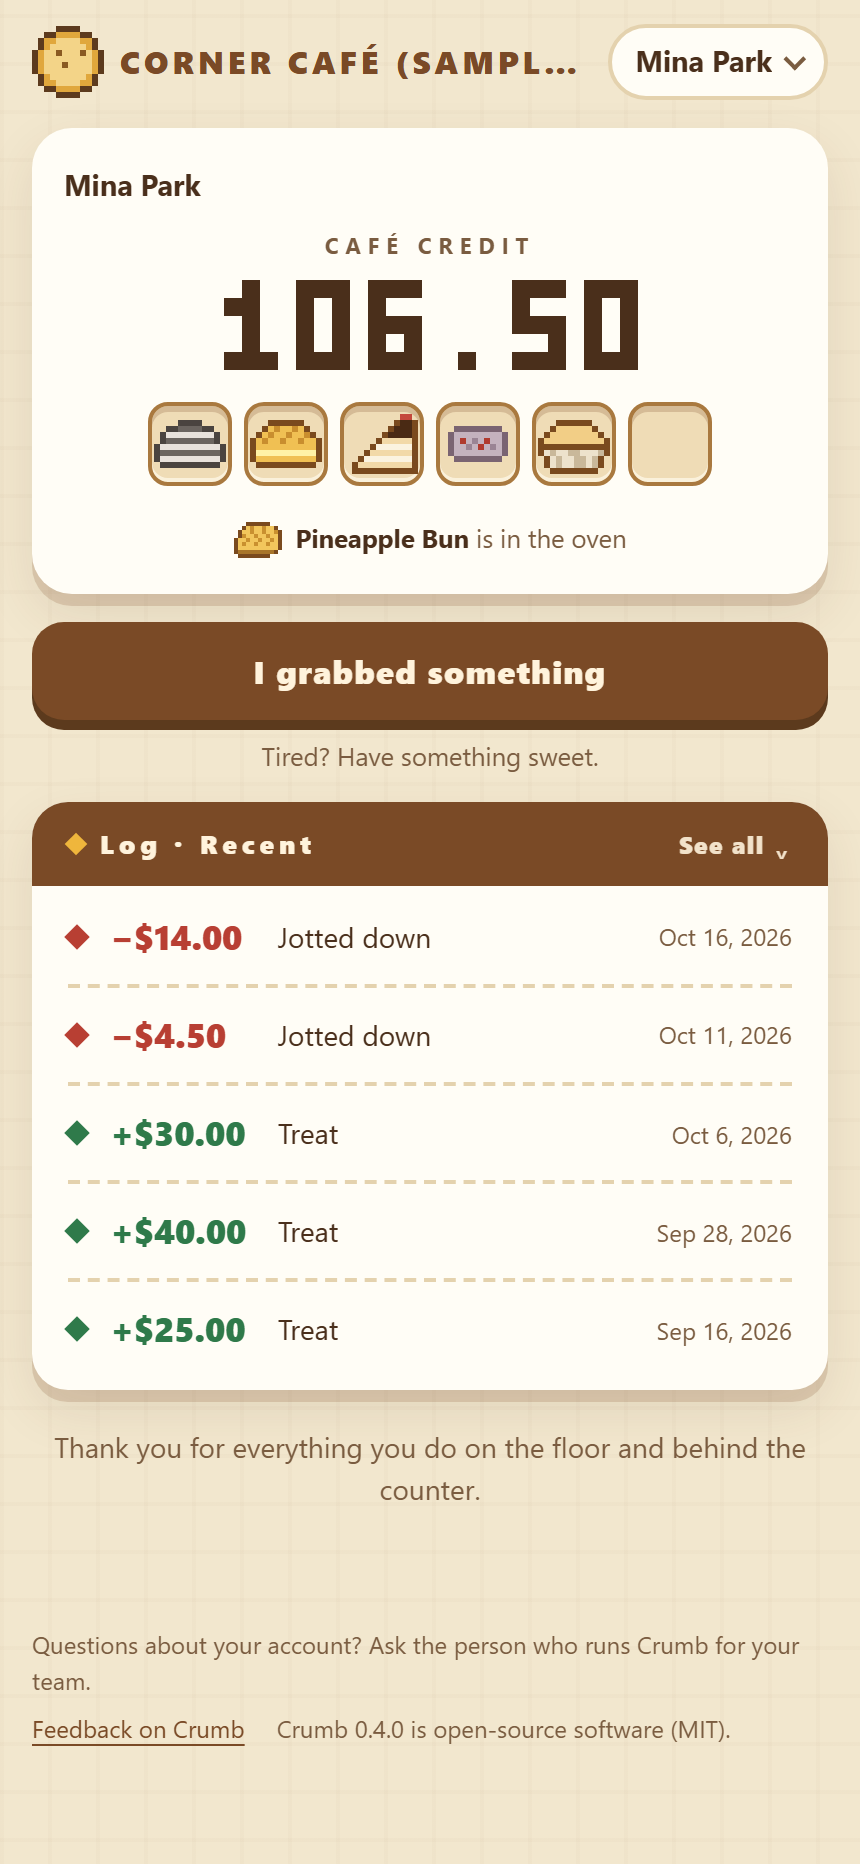
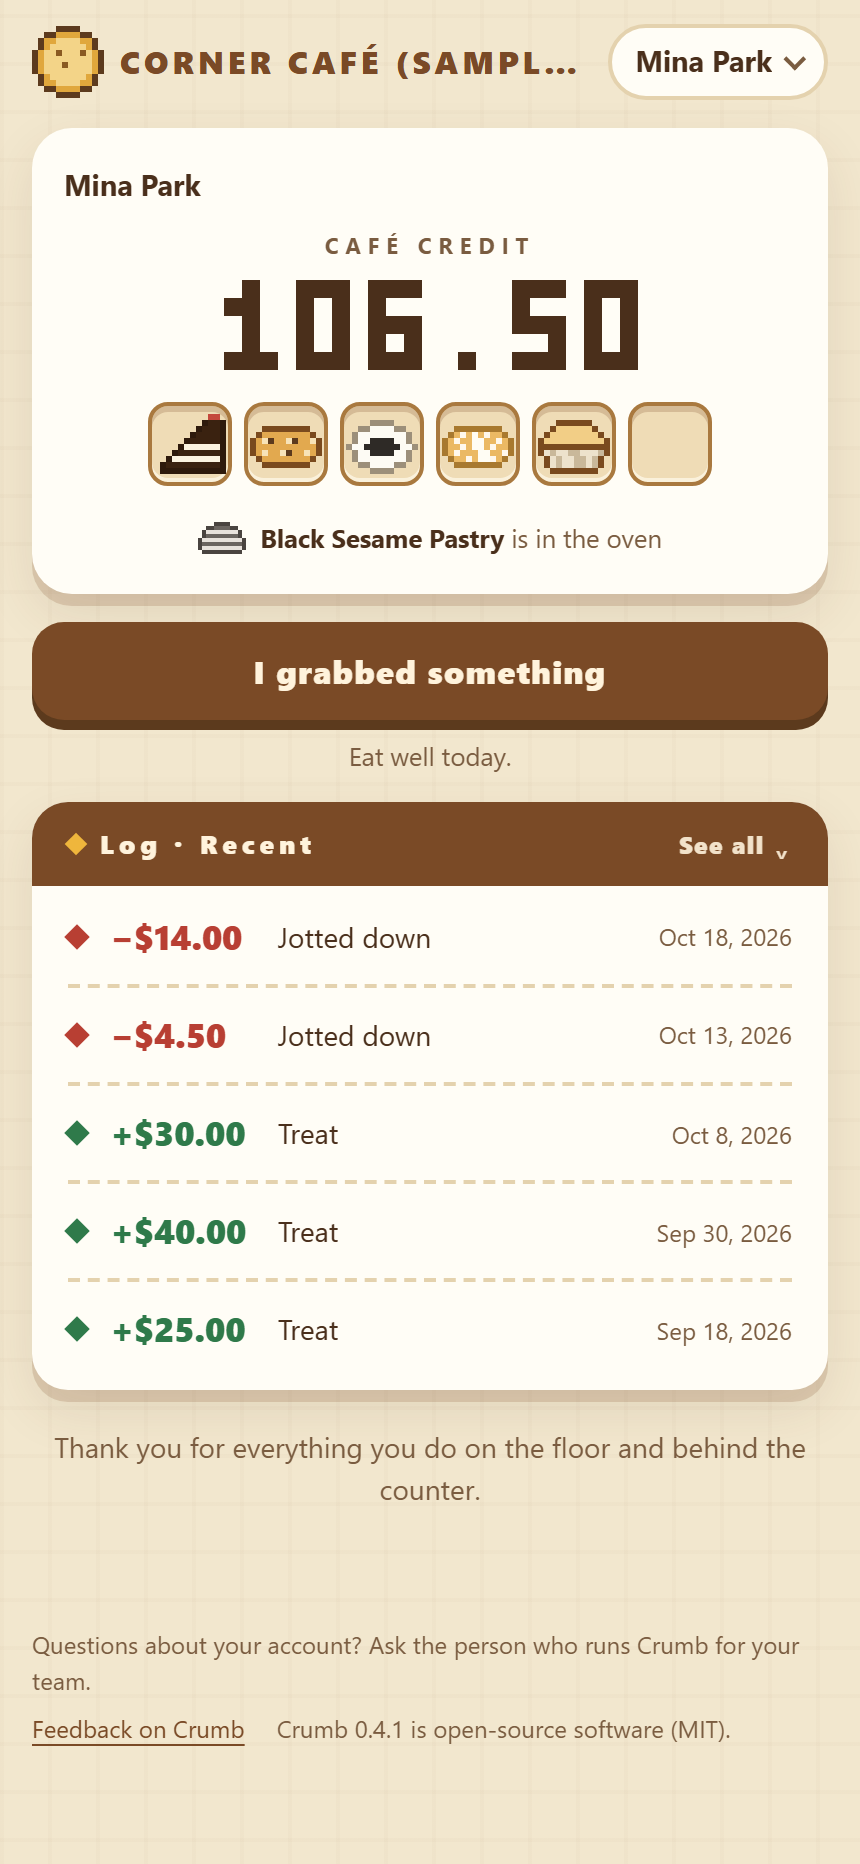
docs: record 0.4.0's CI and published demo; version 0.4.1; screenshots retaken

diff --git a/docs/VALIDATION.md b/docs/VALIDATION.md
@@ -1,6 +1,6 @@
 # Validation report
 
-What has been checked for Crumb 0.4.0, how, where — and what has **not** been checked.
+What has been checked for Crumb 0.4.1, how, where — and what has **not** been checked.
 Nothing here is marked as passing unless it was actually run. The per-requirement view is in
 [RELEASE-CHECKLIST.md](RELEASE-CHECKLIST.md).
 
@@ -32,10 +32,11 @@ named under "Earlier runs during development" below.
 - **Checked on one Windows computer:** every unit, API, concurrency and browser test (in
   Chromium) and the operations drill with real server processes, from a fresh clone of the
   café branch at `ce41879` (see "Results from a fresh clone (local)").
-- **Checked in CI** (GitHub Actions, Linux), for 0.1, 0.2.0 and 0.3.0: the same tests with
-  none skipped, and the container drill — the Docker image was built and taken through setup,
-  restart, backup, restore into a new volume, owner recovery and rollback. **CI has not run on
-  the café round:** the branch has not been pushed.
+- **Checked in CI** (GitHub Actions, Linux), for 0.1, 0.2.0, 0.3.0 and 0.4.0: the same tests
+  with none skipped, and the container drill — the Docker image was built and taken through
+  setup, restart, backup, restore into a new volume, owner recovery and rollback.
+- **Checked for 0.4.1** on one Windows computer: `npm test` and the browser tests (in
+  Chromium) on the branch `fix/0.4.1` (see "Version 0.4.1").
 - **Checked by hand on one iPhone,** for 0.1: signing in by QR code with the camera and through
   WeChat, and the home-screen icon (see "Real phone check").
 - **Shown to the maintainer and approved,** for the café round: the 16 new drawings, in two
@@ -51,9 +52,8 @@ named under "Earlier runs during development" below.
   002 ran only on schema 1 files the tests build), and any real phone. For the themes round:
   upgrading a real deployment of 0.2 (migration 003 ran only on schema 2 files the tests
   build), and any real phone (the Bakery icon on a home screen included). For the café round:
-  CI and the container drill, upgrading a real deployment of 0.3, any real phone (the dark
-  pages, the café icon on a home screen and the browser bar's colour included), browsers older
-  than the tests' Chromium, and the demo's three shops on GitHub Pages.
+  upgrading a real deployment of 0.3, any real phone (the dark pages, the café icon on a home
+  screen and the browser bar's colour included), and browsers older than the tests' Chromium.
 - **Reviewed by AI only:** seven review passes up to 0.1 (six by Claude agents, one by
   ChatGPT), the review of the one-page round described under "The review fixes", for the
   themes round a review of each task against the design and for code quality, a review of a
@@ -61,16 +61,16 @@ named under "Earlier runs during development" below.
   with three independent checks of each finding, all by Claude agents; and for the café round
   a review of each task's code against the design and for code quality, with a fix round and a second review where a review found a problem, all by Claude agents. No human code review and no professional security audit has happened yet, of any
   round.
-- So Crumb 0.4.0 is **not yet validated for managing a real team's benefits.** What is still
+- So Crumb 0.4.1 is **not yet validated for managing a real team's benefits.** What is still
   needed is at the end of the checklist.
 
 ## Environment
 
 | | Local | CI |
 | --- | --- | --- |
-| Commit | The development branch `feature/cafe`, from a fresh clone (see "Results from a fresh clone (local)"). The commit cloned was `ce41879` ("docs: the Café in the guides; version 0.4.0; screenshots retaken"). The 0.3.0 record, a fresh clone of `9849c31`, and the records before it are kept below. | 0.1: `67a174b`, [run 36412250215](https://github.com/bellaaaaxu/crumb/actions/runs/36412250215). 0.2.0: the pull request's last commit `1fb57ee`, [run 36983236954](https://github.com/bellaaaaxu/crumb/actions/runs/36983236954), and the merge commit `bbfda7f` on `main`, [run 36984318360](https://github.com/bellaaaaxu/crumb/actions/runs/36984318360). 0.3.0: the pull request's last commit `057cd38`, [run 37433938374](https://github.com/bellaaaaxu/crumb/actions/runs/37433938374), and the merge commit `5247e73` on `main`, [run 37434828326](https://github.com/bellaaaaxu/crumb/actions/runs/37434828326). Not run on `feature/cafe`. |
-| Date | 2026-10-17 (the fresh clone of `ce41879`); 2026-10-05 (the 0.3.0 record); 2026-10-01 (the 0.2.0 records); 2026-09-30 and 2026-10-01 (the earlier runs during development of 0.2.0) | 2026-09-28 (0.1); 2026-10-02 (0.2.0); 2026-10-06 (0.3.0) |
-| Machine | Windows 11 Pro 10.0.26200 | GitHub Actions `ubuntu-24.04`, x64 (image 20260920.314.1 for 0.1, 20260927.320.1 for 0.2.0 and 0.3.0) |
+| Commit | The development branch `feature/cafe`, from a fresh clone (see "Results from a fresh clone (local)"). The commit cloned was `ce41879` ("docs: the Café in the guides; version 0.4.0; screenshots retaken"). The 0.3.0 record, a fresh clone of `9849c31`, and the records before it are kept below. | 0.1: `67a174b`, [run 36412250215](https://github.com/bellaaaaxu/crumb/actions/runs/36412250215). 0.2.0: the pull request's last commit `1fb57ee`, [run 36983236954](https://github.com/bellaaaaxu/crumb/actions/runs/36983236954), and the merge commit `bbfda7f` on `main`, [run 36984318360](https://github.com/bellaaaaxu/crumb/actions/runs/36984318360). 0.3.0: the pull request's last commit `057cd38`, [run 37433938374](https://github.com/bellaaaaxu/crumb/actions/runs/37433938374), and the merge commit `5247e73` on `main`, [run 37434828326](https://github.com/bellaaaaxu/crumb/actions/runs/37434828326). 0.4.0: the pull request's last commit `b4c3f62`, [run 39098953289](https://github.com/bellaaaaxu/crumb/actions/runs/39098953289), and the merge commit `c3a0278` on `main`, [run 39108290066](https://github.com/bellaaaaxu/crumb/actions/runs/39108290066). |
+| Date | 2026-10-17 (the fresh clone of `ce41879`); 2026-10-05 (the 0.3.0 record); 2026-10-01 (the 0.2.0 records); 2026-09-30 and 2026-10-01 (the earlier runs during development of 0.2.0) | 2026-09-28 (0.1); 2026-10-02 (0.2.0); 2026-10-06 (0.3.0); 2026-10-18 (0.4.0) |
+| Machine | Windows 11 Pro 10.0.26200 | GitHub Actions `ubuntu-24.04`, x64 (image 20260920.314.1 for 0.1, 20260927.320.1 for 0.2.0 and 0.3.0, 20261012.334.1 for 0.4.0) |
 | Node.js | 24.14.0, npm 11.9.0 | 24.14.0 for the tests; 24.21.0 inside the image (0.1) |
 | SQLite, images | 3.53.4 (better-sqlite3 13.0.3); sharp 0.35.5 with libvips 8.18.7 | the same packages |
 | Browser | Chromium 153.0.8010.12 (Playwright 1.63.0) | Chromium 153.0.8010.12 (Playwright 1.63.0) |
@@ -81,13 +81,13 @@ named under "Earlier runs during development" below.
 A new clone of the development branch `feature/cafe` into an empty temporary folder, with no
 files carried over (deleted afterwards), on 2026-10-17, on the computer and with the versions
 under "Environment". The commit cloned was `ce41879` ("docs: the Café in the guides; version 0.4.0; screenshots retaken"). Its code is
-the code of this release; only this report and the release checklist have changed since.
+the code of 0.4.0; what 0.4.1 changes is under "Version 0.4.1".
 Merging the branch with a merge commit keeps `ce41879` on `main` as it is.
 
 | Step | Command | Result |
 | --- | --- | --- |
 | Install the locked dependencies | `npm ci` | passed — 84 packages, nothing compiled (see `.npmrc`) |
-| Unit, API, concurrency and operations tests | `npm test` | 344 tests: 342 passed, **2 skipped** (file permissions and umask, which Windows does not have; both passed in CI for 0.1, 0.2.0 and 0.3.0) |
+| Unit, API, concurrency and operations tests | `npm test` | 344 tests: 342 passed, **2 skipped** (file permissions and umask, which Windows does not have; both passed in CI for 0.1, 0.2.0, 0.3.0 and 0.4.0) |
 | Theme lists | `node scripts/theme-manifest.mjs --check` | current: `default` 39 keys, `bakery` 24 keys, `cafe` 24 keys |
 | Pastry shop's and Bakery's list files and icons | `git diff --quiet 5247e73 HEAD -- themes/default.json themes/bakery.json app/favicon.svg app/icons/icon-180.png app/icons/icon-192.png app/icons/icon-512.png app/icons/bakery` | unchanged since 0.3.0, byte for byte |
 | The server | `git diff --quiet 5247e73 HEAD -- server` | unchanged since 0.3.0 |
@@ -136,6 +136,25 @@ On 2026-10-17 the maintainer was shown these pictures, taken from the fresh clon
 public demo's switch between the three shops, served on this computer from the same commit
 (§13 of the café design, gate 3, and its assumption 42), and approved them. None of these
 pictures is kept in the repository: the README shows Pastry shop.
+
+### Version 0.4.1
+
+0.4.1 fixes three things found after 0.4.0 was released:
+
+- A text, number or password field with a mistake in it now has a red border in every
+  theme; before, only a select or a textarea did. A browser test checks it in Pastry shop,
+  Bakery and Café. The café's red is 9.68:1 on its field.
+- The test guards: the check that Pastry shop and Bakery are unchanged now also counts rules
+  written for those two themes; the contrast helper stops on a colour it cannot read
+  instead of leaving it out; and both checks allow the red border, and only it, as a change
+  from 0.3.0.
+- `scripts/screenshots.mjs` closes its server and temporary folder even when the browser
+  fails to start.
+
+The version is 0.4.1 in `package.json` and `package-lock.json`, and the README screenshots
+were retaken for the footer. Checked on 2026-10-19 on the branch `fix/0.4.1`, on the
+computer under "Environment": `npm test` 345 tests, 343 passed and 2 skipped (file
+permissions); the theme lists current; Playwright 221 of 221 in Chromium.
 
 ### The 0.3.0 record: the fresh clone of `9849c31`
 
@@ -389,8 +408,15 @@ merge commit `5247e73` on `main`
 lists current, the process drill passed, Playwright 105 passed, and the container drill
 passed.
 
-The café round has had **no CI run**: `feature/cafe` has not been pushed, so neither the
-Linux test job (with the two file-permission tests) nor the container drill has run on it.
+For 0.4.0 both jobs passed on the pull request's last commit, `b4c3f62`
+([run 39098953289](https://github.com/bellaaaaxu/crumb/actions/runs/39098953289)), and on the
+merge commit `c3a0278` on `main`
+([run 39108290066](https://github.com/bellaaaaxu/crumb/actions/runs/39108290066), image
+20261012.334.1). In the run on `c3a0278`: `npm test` 344 of 344 with none skipped, the three
+theme lists current, Playwright 216 passed, and the container drill passed. After the merge,
+the published demo was opened in Chromium on 2026-10-18 and switched to Café (mascot label
+"Mascot: hot coffee") with no console errors; for 0.3.0 it was opened on 2026-10-17 and
+switched to Bakery, also with no console errors.
 
 ## What the tests cover
 
@@ -724,9 +750,6 @@ password screening.
 - **The fallback for file systems without hard links** in backup and restore, and a temporary
   file that cannot be deleted afterwards (for example, held by a virus scanner).
 - **A human code review and a professional security audit.**
-- **The café round in CI:** the Linux test job (where the two file-permission tests run)
-  and the container drill have not run on `feature/cafe`; it has not been pushed. Docker
-  is not installed on the computer that ran the fresh clone.
 - **Upgrading a real deployment of 0.1:** migration 002 has run only on schema 1 database
   files that the unit tests build from `001-initial.sql`, and on new databases, where 001 and
   002 run one after the other. Pulling 0.2 and rebuilding the image over a running instance of
@@ -742,10 +765,6 @@ password screening.
 - **The themes round on real phones:** a Bakery team's pages, the tab icon, the home-screen
   icon (and that an icon already on a home screen keeps its old picture until it is added
   again), and the demo's switch and shutter were checked in Chromium only.
-- **The demo's switch on GitHub Pages:** for 0.3.0, the published demo was opened in
-  Chromium on 2026-10-17, after merging, and switched to Bakery with no console errors. The
-  café round's switch between three shops was checked with the page opened straight from disk
-  and served on this computer, in Chromium; the published page only after merging.
 - **Upgrading a real deployment of 0.3:** 0.4 adds no migration, and a database at schema 3
   opens as it is in the unit tests. Pulling 0.4 and rebuilding the image over a running
   instance of 0.3, and going back to 0.3 with a Pastry shop or Bakery team as OPERATIONS.md

diff --git a/docs/RELEASE-CHECKLIST.md b/docs/RELEASE-CHECKLIST.md
@@ -1,4 +1,4 @@
-# Release checklist — Crumb 0.4.0
+# Release checklist — Crumb 0.4.1
 
 One row for each requirement of
 [the design behind 0.1](superpowers/specs/2026-09-27-crumb-self-hosted-design.md) and each
@@ -11,15 +11,18 @@ round", one row for each part of
 [the café design](superpowers/specs/2026-10-06-crumb-cafe-theme-design.md). How and where the
 checks ran is in [VALIDATION.md](VALIDATION.md).
 
-The café round was checked on a fresh clone of the development branch on 2026-10-17, whose code
-is the code of this release: the commit cloned was `ce41879` ("docs: the Café in the guides; version 0.4.0; screenshots retaken"). CI has not run on it.
+The café round, released as 0.4.0, was checked on a fresh clone of the development branch on
+2026-10-17: the commit cloned was `ce41879` ("docs: the Café in the guides; version 0.4.0; screenshots retaken"); and in CI on
+its pull request (`b4c3f62`) and on `main` (`c3a0278`). 0.4.1 fixes three things found after
+that release; it was checked with `npm test` and the browser tests on the branch `fix/0.4.1`
+(see "Version 0.4.1" below).
 The themes round, released as 0.3.0, was checked on a fresh clone of `9849c31` on 2026-10-05
 and in CI on its pull request (`057cd38`) and on `main` (`5247e73`). The one-page round,
 released as 0.2.0, was checked on a fresh clone of `2ddc69b` on 2026-10-01 and in CI on its
 pull request (`1fb57ee`) and on `main` (`bbfda7f`).
 
-The café round is released as Crumb 0.4.0; its database is still at schema 3. "0.3.0" on this
-page means the release at merge commit `5247e73`; "0.2.0" the release at merge commit
+The café round is released as Crumb 0.4.0, and its fixes as 0.4.1; the database is still at
+schema 3. "0.4.0" on this page means the release at merge commit `c3a0278`; "0.3.0" means the release at merge commit `5247e73`; "0.2.0" the release at merge commit
 `bbfda7f`, with its database at schema 2; and "0.1" the first release, commit `643e237`, with
 its database at schema 1.
 
@@ -149,9 +152,10 @@ checklist and VALIDATION.md changed before 0.3.0 was released, so its code is th
 Checked on a fresh clone of the development branch `feature/cafe` on 2026-10-17, on one Windows
 computer, in Chromium only (`npm test` 342 passed and 2 skipped of 344, theme lists
 current, process drill 20 of 20, browser tests 216 of 216). The commit cloned was `ce41879`
-("docs: the Café in the guides; version 0.4.0; screenshots retaken"); since that run only this checklist and VALIDATION.md have changed, so its code is
-the code of this release. CI has not run on this round (the branch has not been pushed), so
-nothing here ran on Linux or in the container.
+("docs: the Café in the guides; version 0.4.0; screenshots retaken"); after that run only this checklist and VALIDATION.md changed before
+0.4.0 was released, so its code is the code of 0.4.0. Both CI jobs passed on the pull request's last commit `b4c3f62` and on the
+merge commit `c3a0278` on `main`: the tests on Linux with none skipped, and the container
+drill (VALIDATION.md, "Results in CI").
 
 | Requirement | Status | Evidence |
 | --- | --- | --- |
@@ -171,12 +175,25 @@ nothing here ran on Linux or in the container.
 | No server change, no migration | Passed | In the run above: nothing under `server/` changed since 0.3.0; `tests/db.test.mjs` (a database at schema 3 opens as it is) |
 | Going from 0.1 or 0.2 straight to 0.4 | Partly | `tests/db.test.mjs` (the migration tests: a schema 1 database runs 002 and 003, a 0.2.0 database runs 003, and both open on `default` with their data intact). A real deployment of 0.1, 0.2 or 0.3 upgraded by the 0.4 image, with or without Docker: **not verified** |
 | No page trips the CSP, at both widths | Passed (Chromium only) | `tests/e2e/accessibility.spec.mjs` (also on a café team: no sideways scrolling, no CSP violations). That this check fails when a café page breaks the policy: **not verified** (see VALIDATION.md, "Not verified") |
-| The public demo's café | Passed (Chromium only) | E2E in `tests/e2e/demo.spec.mjs` (three buttons at phone width; everything Café's after a switch, no console errors, no visible "oven"; colours changed behind the shutter; the same sign colour in all three shops; reduced motion; no frame of the old shop's motion; remembered and dark from the first paint; kept by "Reset the demo"; the tour from Sam) and `tests/e2e/canvas-colours.spec.mjs`. On GitHub Pages: **not verified** until merged |
+| The public demo's café | Passed (Chromium only) | E2E in `tests/e2e/demo.spec.mjs` (three buttons at phone width; everything Café's after a switch, no console errors, no visible "oven"; colours changed behind the shutter; the same sign colour in all three shops; reduced motion; no frame of the old shop's motion; remembered and dark from the first paint; kept by "Reset the demo"; the tour from Sam) and `tests/e2e/canvas-colours.spec.mjs`. On GitHub Pages: opened in Chromium after merging, on 2026-10-18, and switched to Café (mascot label "Mascot: hot coffee") with no console errors |
 | The 16 new drawings | Reviewed by eye | In two batches of eight, Hot Coffee in the first, before they were final (§13 of the café design, gate 1): the first approved on 2026-10-16, the second on 2026-10-17. The drawings in the commit cloned are exactly the approved ones, compared during the run with the approval record kept outside the repository |
 | Café's pages, theme cards and the demo | Reviewed by eye | Taken from the fresh clone of `ce41879` and shown to the maintainer with every colour and porcelain ground the design leaves as a choice, approved on 2026-10-17 (§13 of the café design, gate 3); the demo's switch between the three shops was shown served on this computer from the same commit. None of these pictures is kept in the repository, where the README stays on Pastry shop |
 | Version 0.4.0 | Passed | `tests/docs.test.mjs` (the lock file and both READMEs follow `package.json`), `tests/auth.test.mjs` (the session reports it), in the run above. The footer in the README screenshots retaken by `scripts/screenshots.mjs` reads "Crumb 0.4.0 is open-source software (MIT).", checked in those screenshots during the run |
 | Documents | Partly | Automated: `tests/docs.test.mjs` (local links resolve, every README image exists and has an alt text) and `tests/source.test.mjs` (no invisible characters). Not automated: what README (EN/ZH), THEMES.md, OPERATIONS.md, DEPLOYMENT.md and CONTRIBUTING.md say; their new sentences were shown to the maintainer and approved before they were committed |
-| CI and the container drill for this round | Not verified | The branch has not been pushed; Docker is not installed on the computer that ran the fresh clone. |
+| CI and the container drill for this round | Passed | Both jobs passed on the pull request's last commit `b4c3f62` and on the merge commit `c3a0278` on `main`: the tests on Linux with none skipped, and the container drill (VALIDATION.md, "Results in CI"). |
+
+## Version 0.4.1
+
+Checked on 2026-10-19 on the branch `fix/0.4.1`, on one Windows computer, in Chromium only
+(`npm test` 343 passed and 2 skipped of 345, theme lists current, browser tests 221 of 221).
+
+| Requirement | Status | Evidence |
+| --- | --- | --- |
+| A field with a mistake in it has a red border | Passed (Chromium only) | E2E in `tests/e2e/invalid-field.spec.mjs` (a text field on Settings in Pastry shop, Bakery and Café, and the setup page's password field); `tests/colours.test.mjs` (the red border at least 3:1 on the field and around it; the café's is 9.68:1 on its field) |
+| Pastry shop and Bakery otherwise unchanged from 0.3.0 | Passed (Chromium only) | `tests/light-styles.test.mjs` and E2E in `tests/e2e/light-unchanged.spec.mjs`, which allow the red border, and only it, as a change; the static check now also counts rules written for Pastry shop or Bakery |
+| The contrast helper reads every colour it is given | Passed | `tests/colours.test.mjs` (an `hsl()`, `oklch()`, `color-mix()` or named colour stops the check) |
+| The screenshot script cleans up | Passed | `tests/screenshots.test.mjs`; run once with no browser installed, it left no server or temporary folder behind |
+| Version 0.4.1 | Passed | `tests/docs.test.mjs`, `tests/auth.test.mjs`. The footer in the README screenshots retaken by `scripts/screenshots.mjs` reads "Crumb 0.4.1 is open-source software (MIT)." |
 
 ## Before calling this version ready for real benefits
 
@@ -191,8 +208,9 @@ nothing here ran on Linux or in the container.
 - [x] The themes round: push the branch, open a pull request, get both CI jobs green (the
       tests on Linux and the container drill), and record that run in VALIDATION.md (green on
       `057cd38` and on `5247e73`, recorded with the café round).
-- [ ] The café round: push the branch, open a pull request, get both CI jobs green (the
-      tests on Linux and the container drill), and record that run in VALIDATION.md.
+- [x] The café round: push the branch, open a pull request, get both CI jobs green (the
+      tests on Linux and the container drill), and record that run in VALIDATION.md (green on
+      `b4c3f62` and on `c3a0278`, recorded with 0.4.1).
 - [ ] The one-page round on a real phone: the member page in both spending modes, the keypad,
       the name menu, and the intro with and without reduced motion.
 - [ ] Upgrade a copy of a real instance of 0.1 (invented data) with the 0.2
